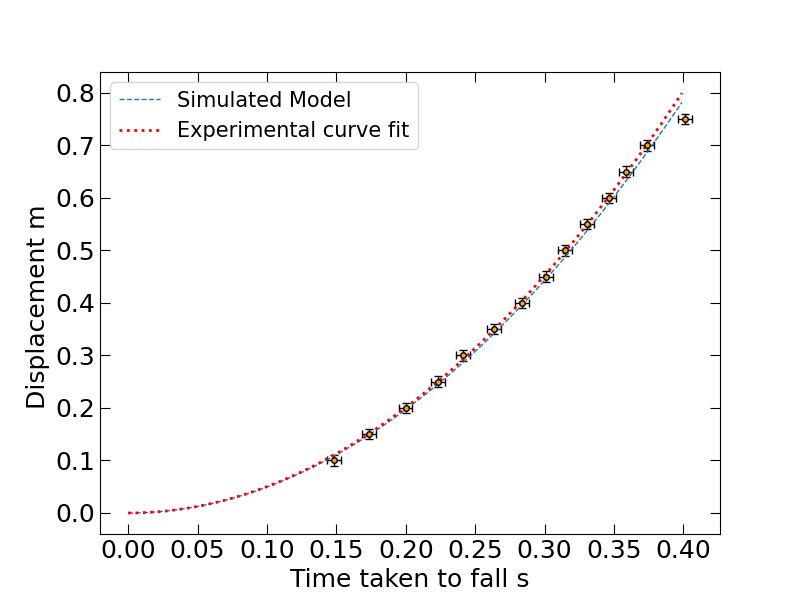
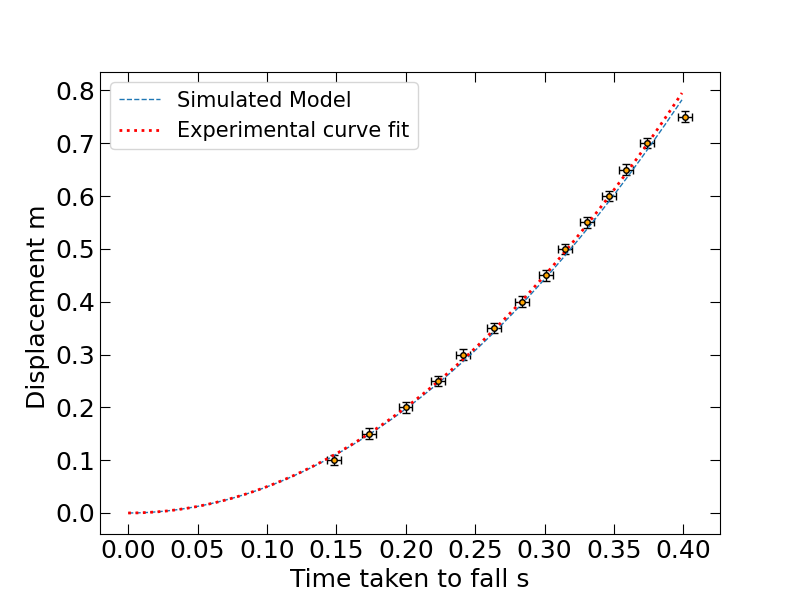
Some graph stuff changed, nothing special

diff --git a/PendulumnModel.py b/PendulumnModel.py
@@ -4,13 +4,15 @@ import numpy as np
 import matplotlib.pyplot as plt
 import scipy.integrate as integrate
 import matplotlib.animation as animation
+plt.rcParams.update({'font.size': 18})
+
 
 # Set the acceleration due to gravity (m/s^2) and the length of the pendulum (m)
 g = 9.8 
 L = 1.2 
 
 theta_init=16
-# Set the initial angle (in degrees) and angular velocity (in degrees per second)
+# Set the initial angle (in $^o$) and angular velocity (in $^o$ per second)
 theta0 = theta_init
 w0 = 0.0
 # Set the mass of the pendulum in kg (not needed yet)
@@ -35,6 +37,14 @@ fig = plt.figure()
 ax2 = fig.add_subplot(1,2,2)
 ax = fig.add_subplot(1,2,1)
 
+plt.tick_params(direction='in',      # I like 'in', could be 'out' or both 'inout'
+                length=7,            # A reasonable length
+                bottom='on',         # I want ticks on the bottom axes
+                left='on',
+                top='on',
+                right='on',
+                
+               )
 
 # Define the initialization function for the animation
 def init():
@@ -106,7 +116,6 @@ state = np.radians([theta0, w0])
 
 # Integrate the state vector using odeint to get the angle and angular velocity as functions of time
 z = integrate.odeint(derivs, state, t)
-print(z[:,0])
 
 # Calculate the x and y positions of the pendulum bob based on the angle and length of the pendulum
 x = L * sin(z[:, 0])/np.pi*180
@@ -124,8 +133,8 @@ time_text = ax2.text(0.05, 0.9, '', transform=ax.transAxes)
 
 
 # You can use Latex here is you wish, e.g., 'Distance run / 10$^{-3}$ km'
-plt.xlabel('Angle')
-plt.ylabel('Angular velocity')
+plt.xlabel('Angle from origin ($^o$)')
+plt.ylabel('Angular velocity ($^o$ s$^-1$)')
 
 ax.errorbar(
         z[:,0]/np.pi*180,  # /(np.cos(x-90)),
@@ -168,7 +177,7 @@ ax2.set_xlim([-60,60])
 ax2.set_ylim([-1.5, 0.5])
 ax2.set(ylabel=None)
 ax2.set_yticks([])
-ax2.set_xlabel('Angle')
+ax2.set_xlabel('Angle from origin ($^o$)')
 
 
 #ani.save('single_pendulum.mp4', fps=15)

diff --git a/fallingbodysgraphDataset2.py b/fallingbodysgraphDataset2.py
@@ -48,8 +48,8 @@ def line(x, slope, intercept):          # Set up the linear fitting - don't amme
     return slope*x + intercept
 
 
-def curve(time, a):
-    return a*time**2
+def curve(time, a,b,c):
+    return a*time**2+b*time+c
 
 
 # Next few line, fits a line to the (x data, and y data) no need to change things.

diff --git a/Drag_glycerolattempt2bigball.py b/Drag_glycerolattempt2bigball.py
@@ -105,7 +105,7 @@ ax.errorbar(
     linestyle='solid',
     # width of the end bit of the error bars, not too small nor too big please.
     capsize=4,
-    label='Quadratic fit',
+    label='Fitted line',
     linewidth=1,
     alpha=1
 )
